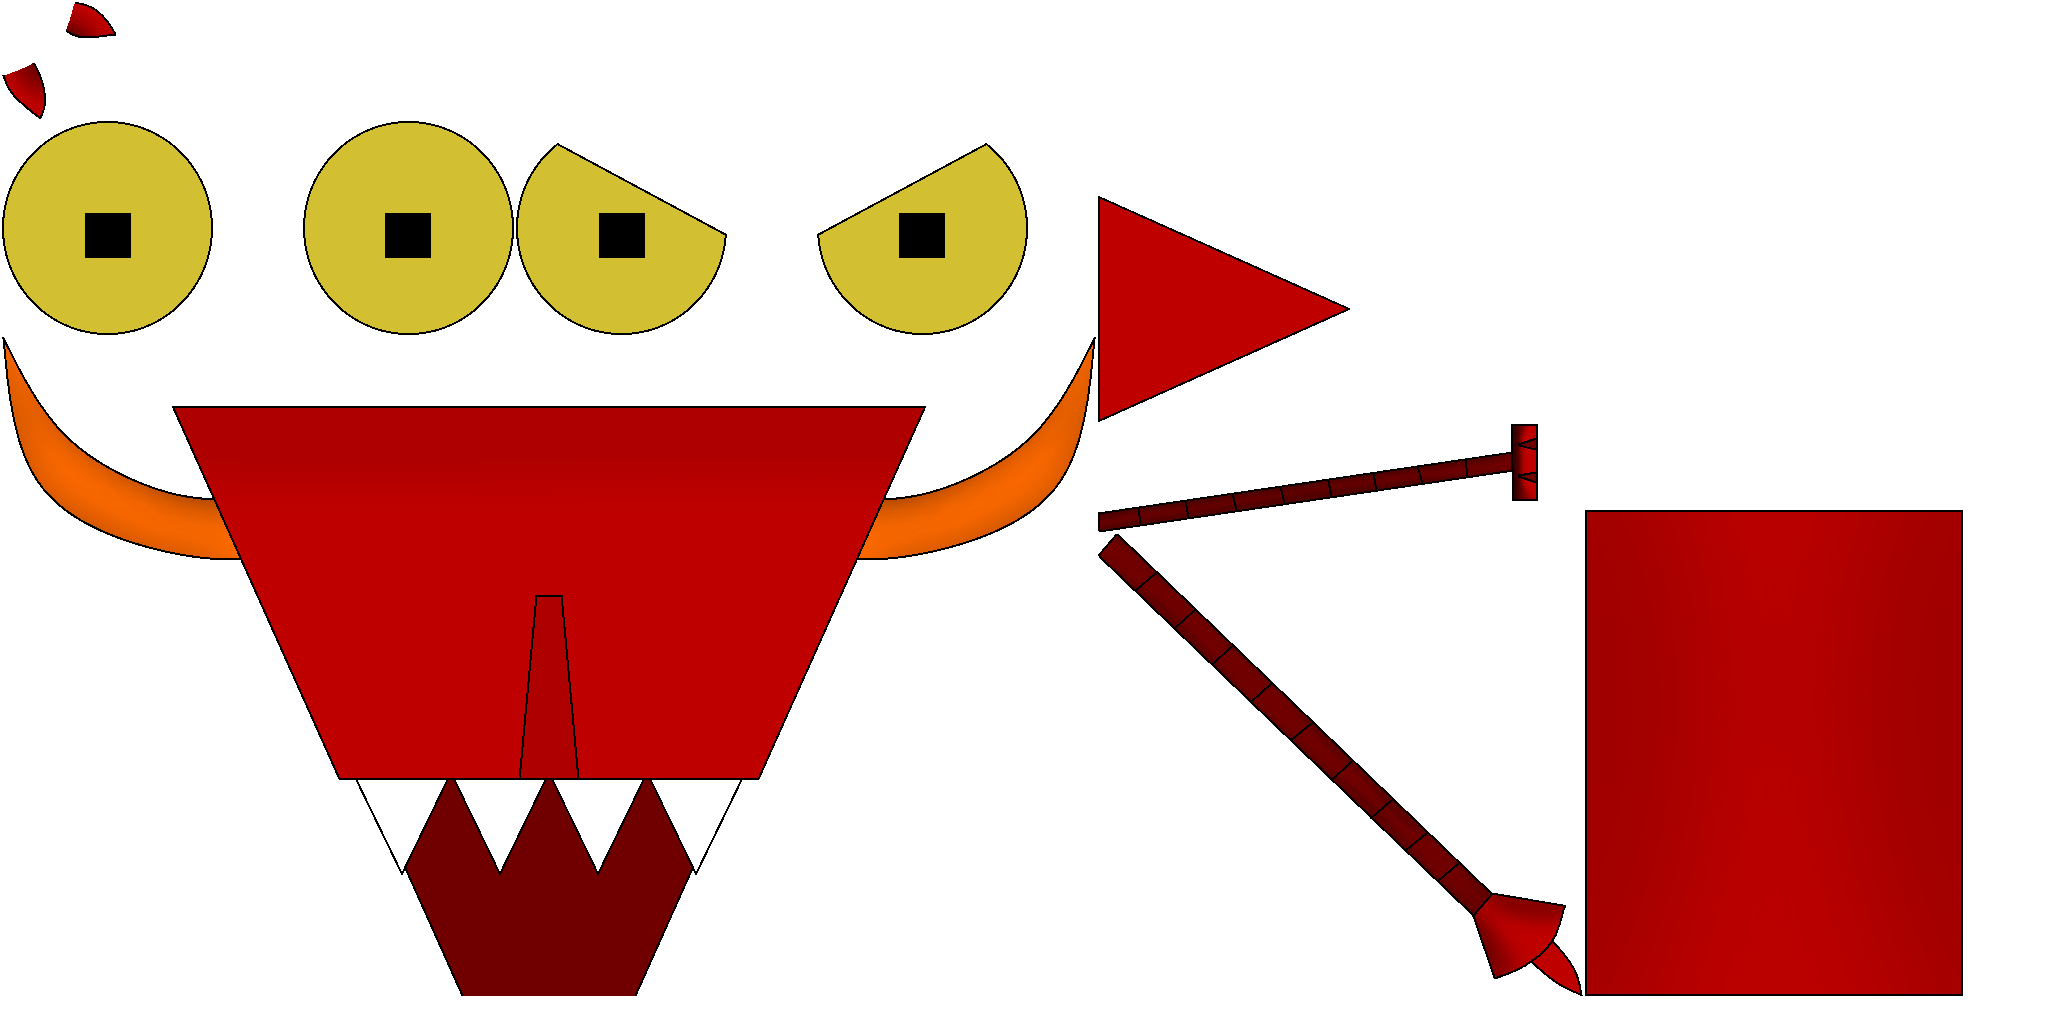
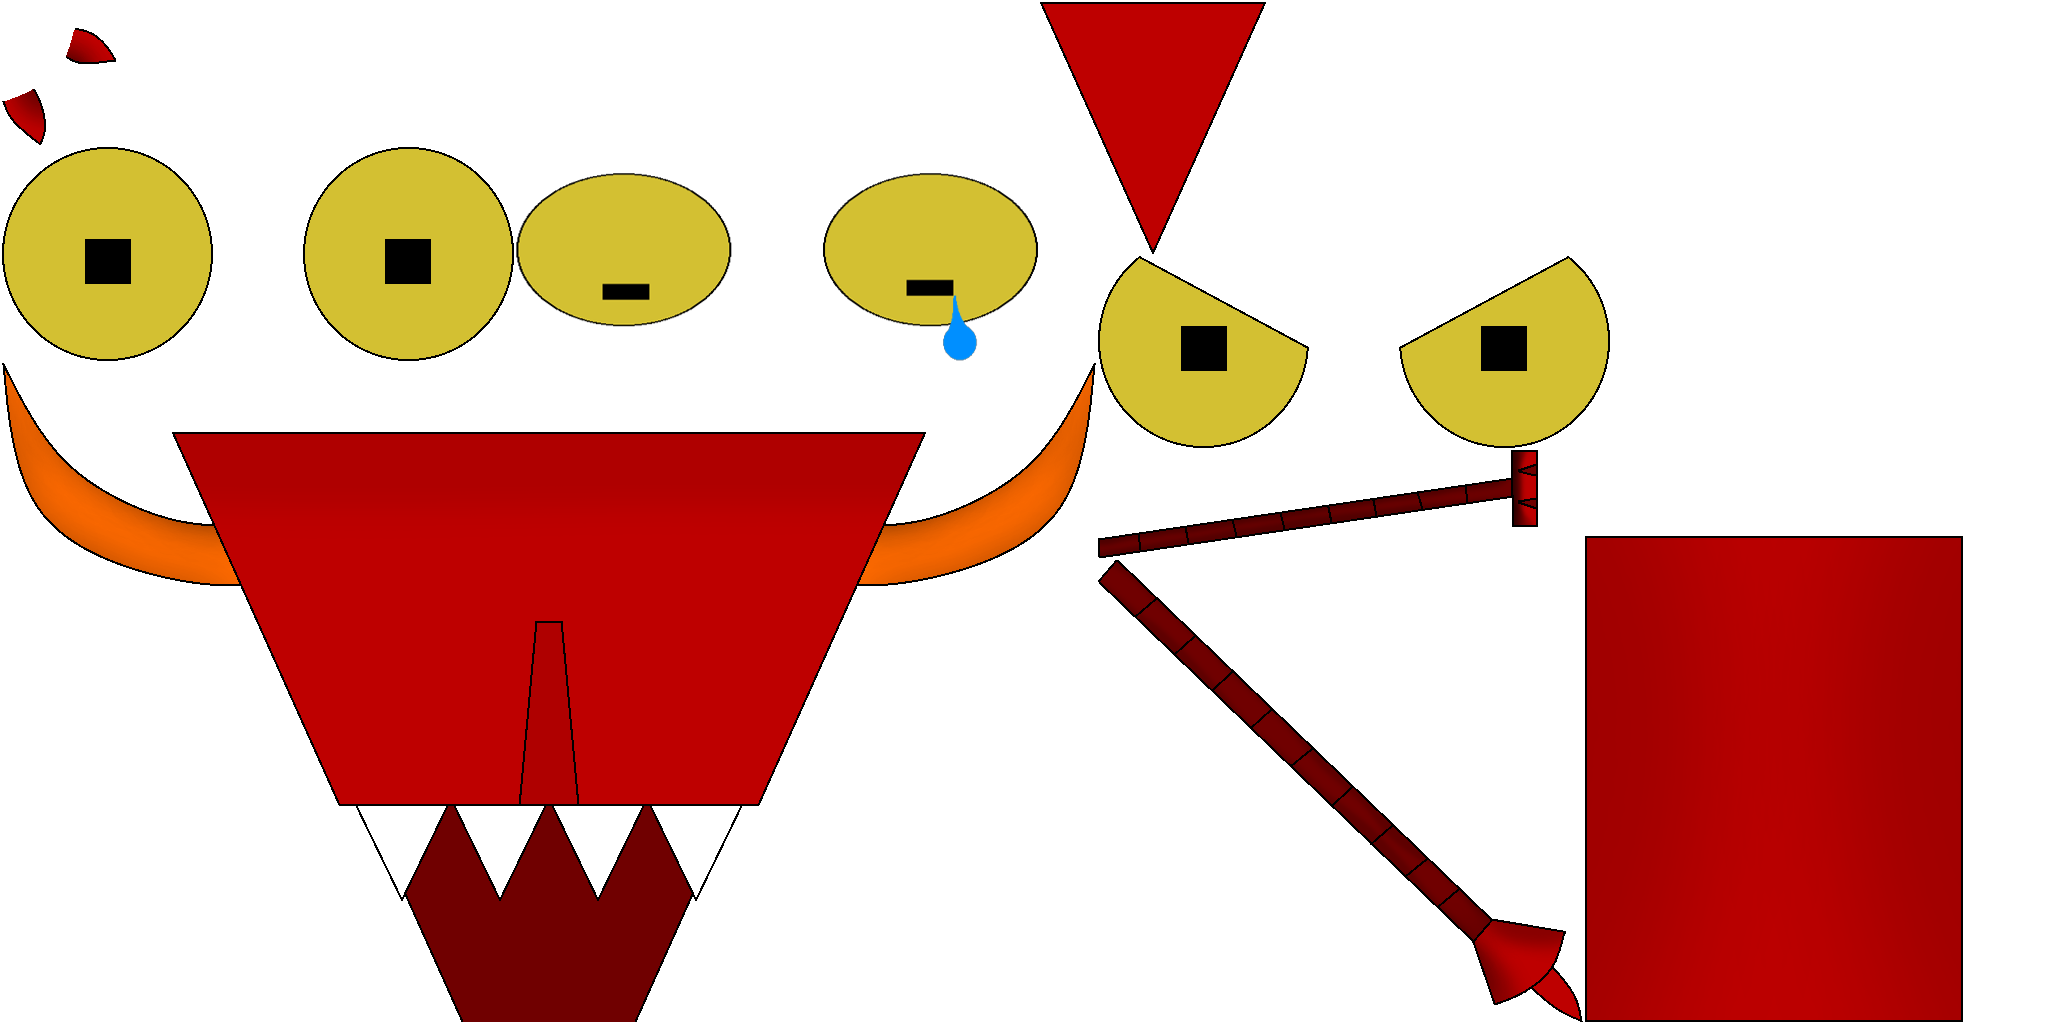
sad Frenchzebutt

diff --git a/core/src/fr/formiko/pixelary/Pixelary.java b/core/src/fr/formiko/pixelary/Pixelary.java
@@ -545,7 +545,7 @@ public class Pixelary extends ApplicationAdapter {
 			case 3:
 				time = 11300;
 				text = "{SPEED=0.5}The cursed pineapple has choose,\nIt's time for me to give up.\n\n{SPEED}{SPEED=0.1}But{SPEED}{SPEED=0.35} I will be back in next libgdx jam !\nCheck hydrolien's game for more.{SPEED}";
-				skin = "normal";
+				skin = "sad";
 				break;
 			default:
 				time = 0;
